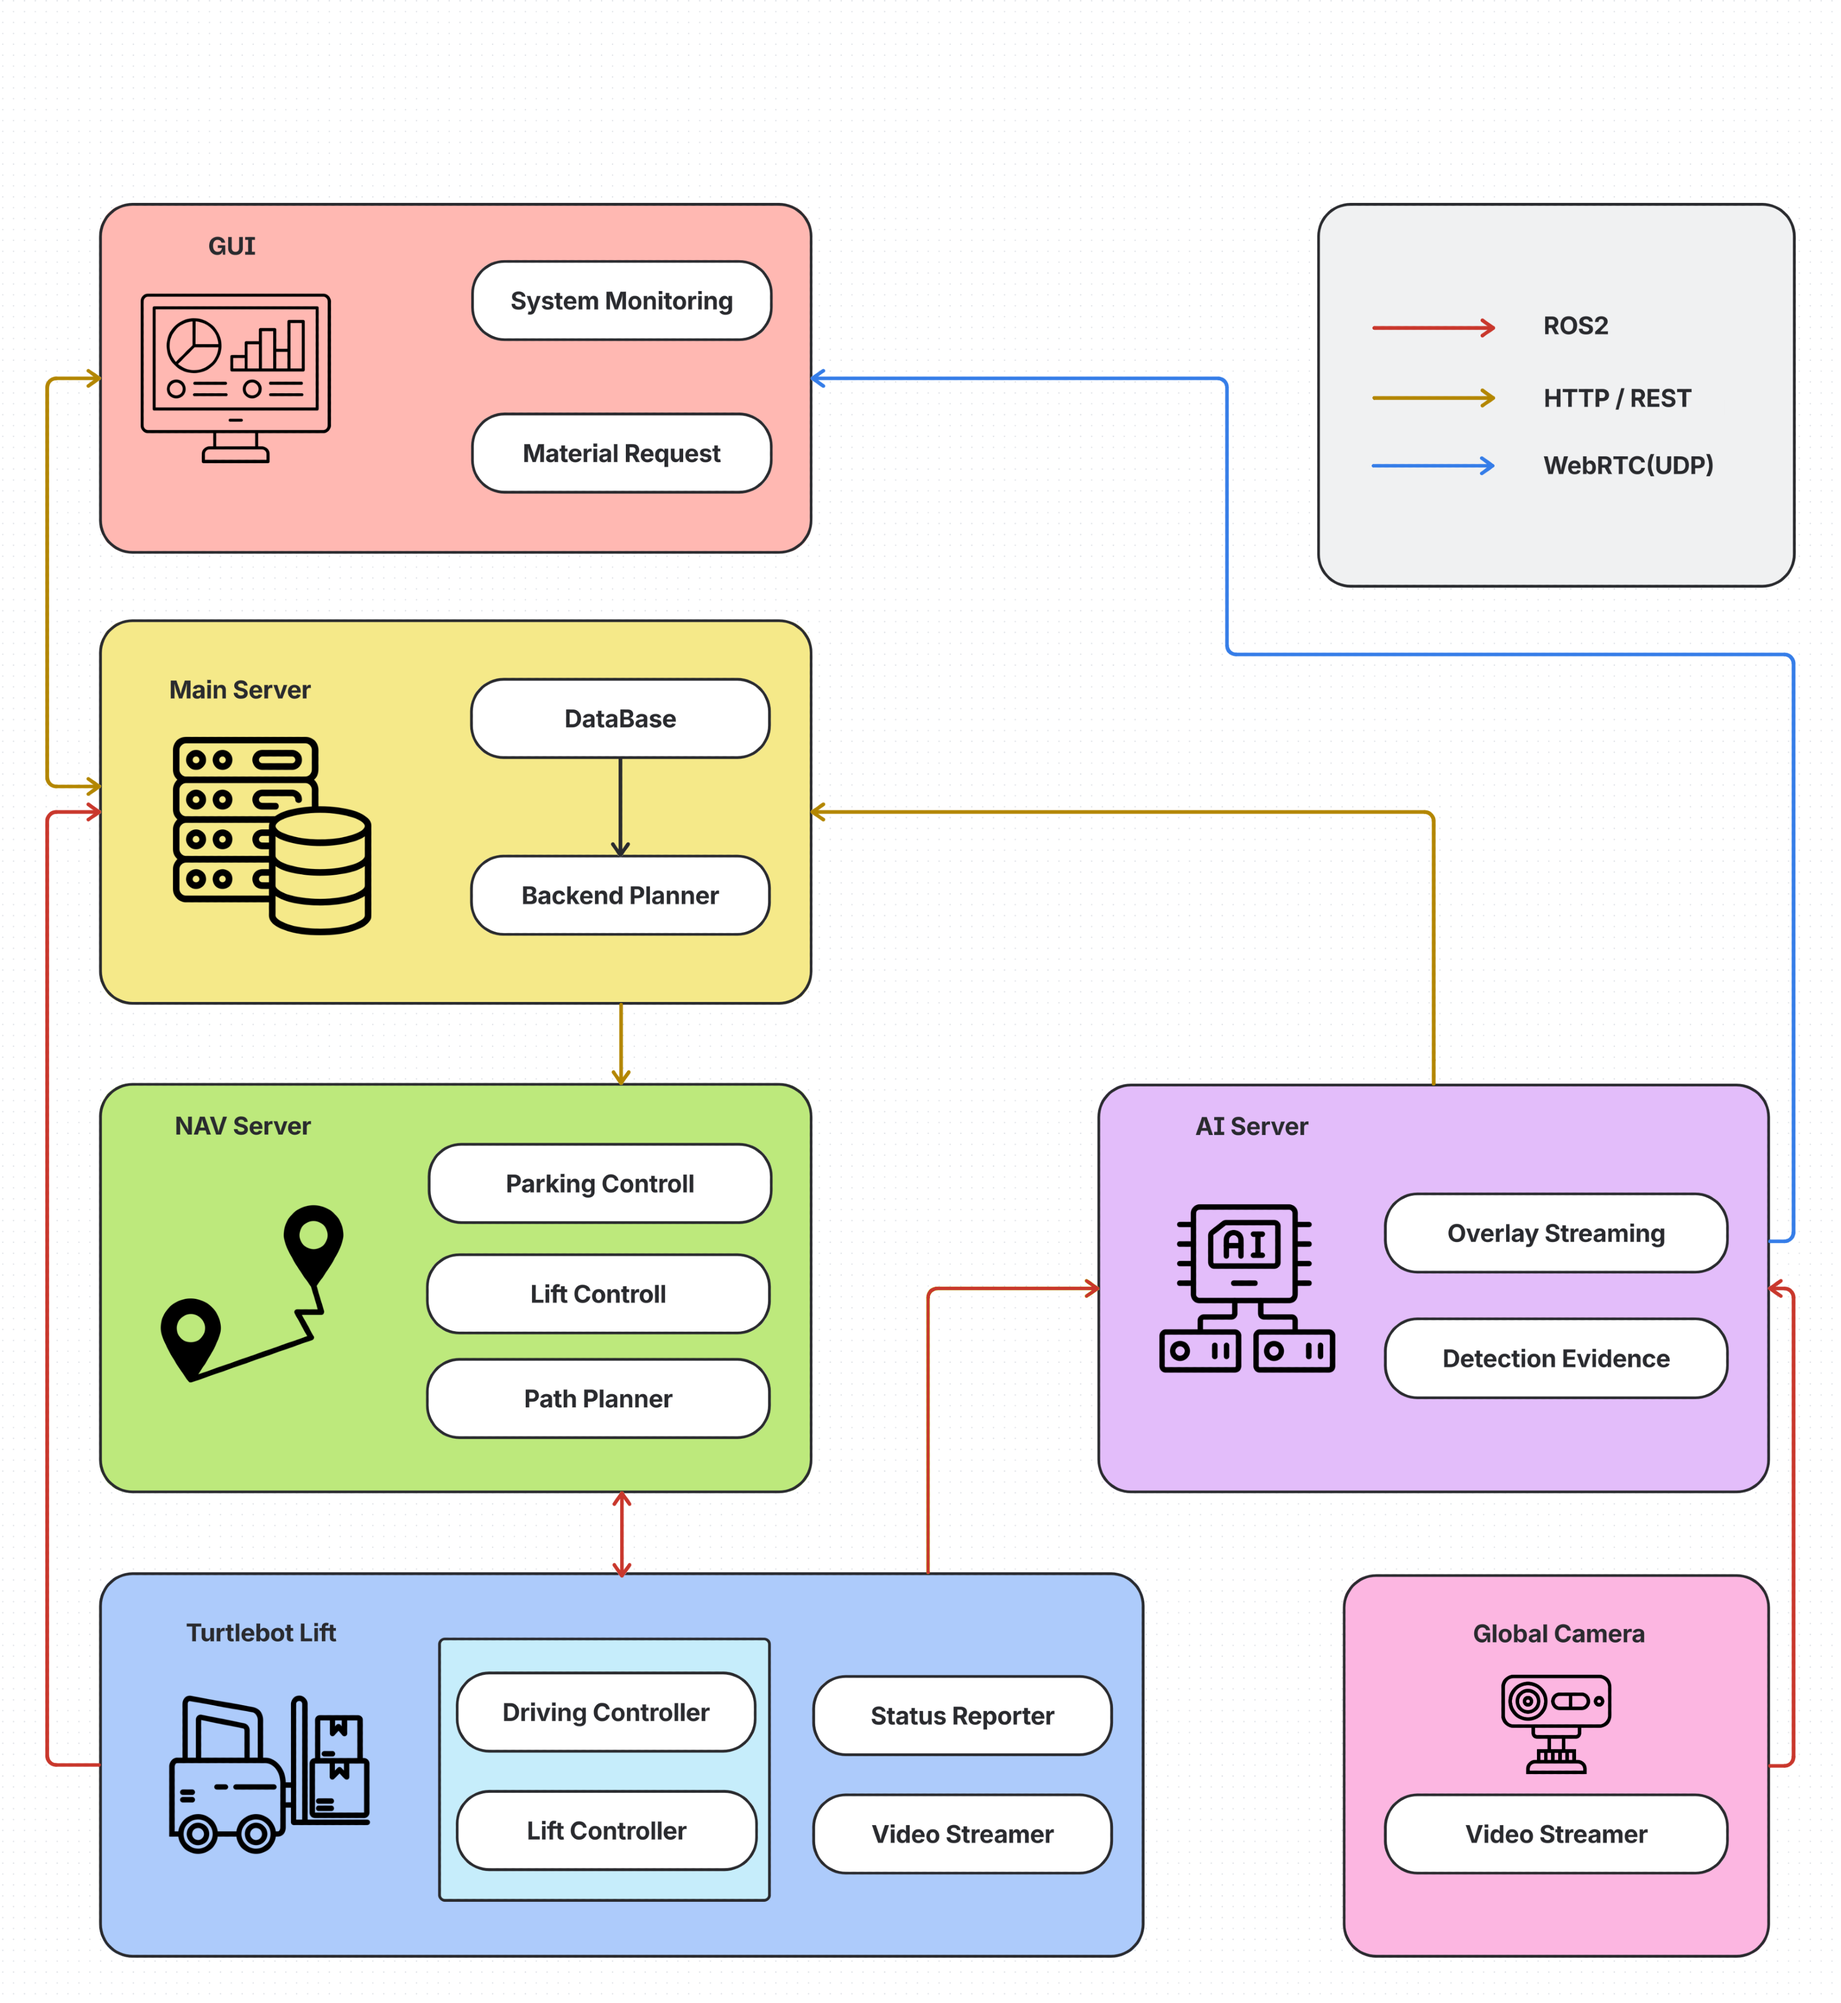
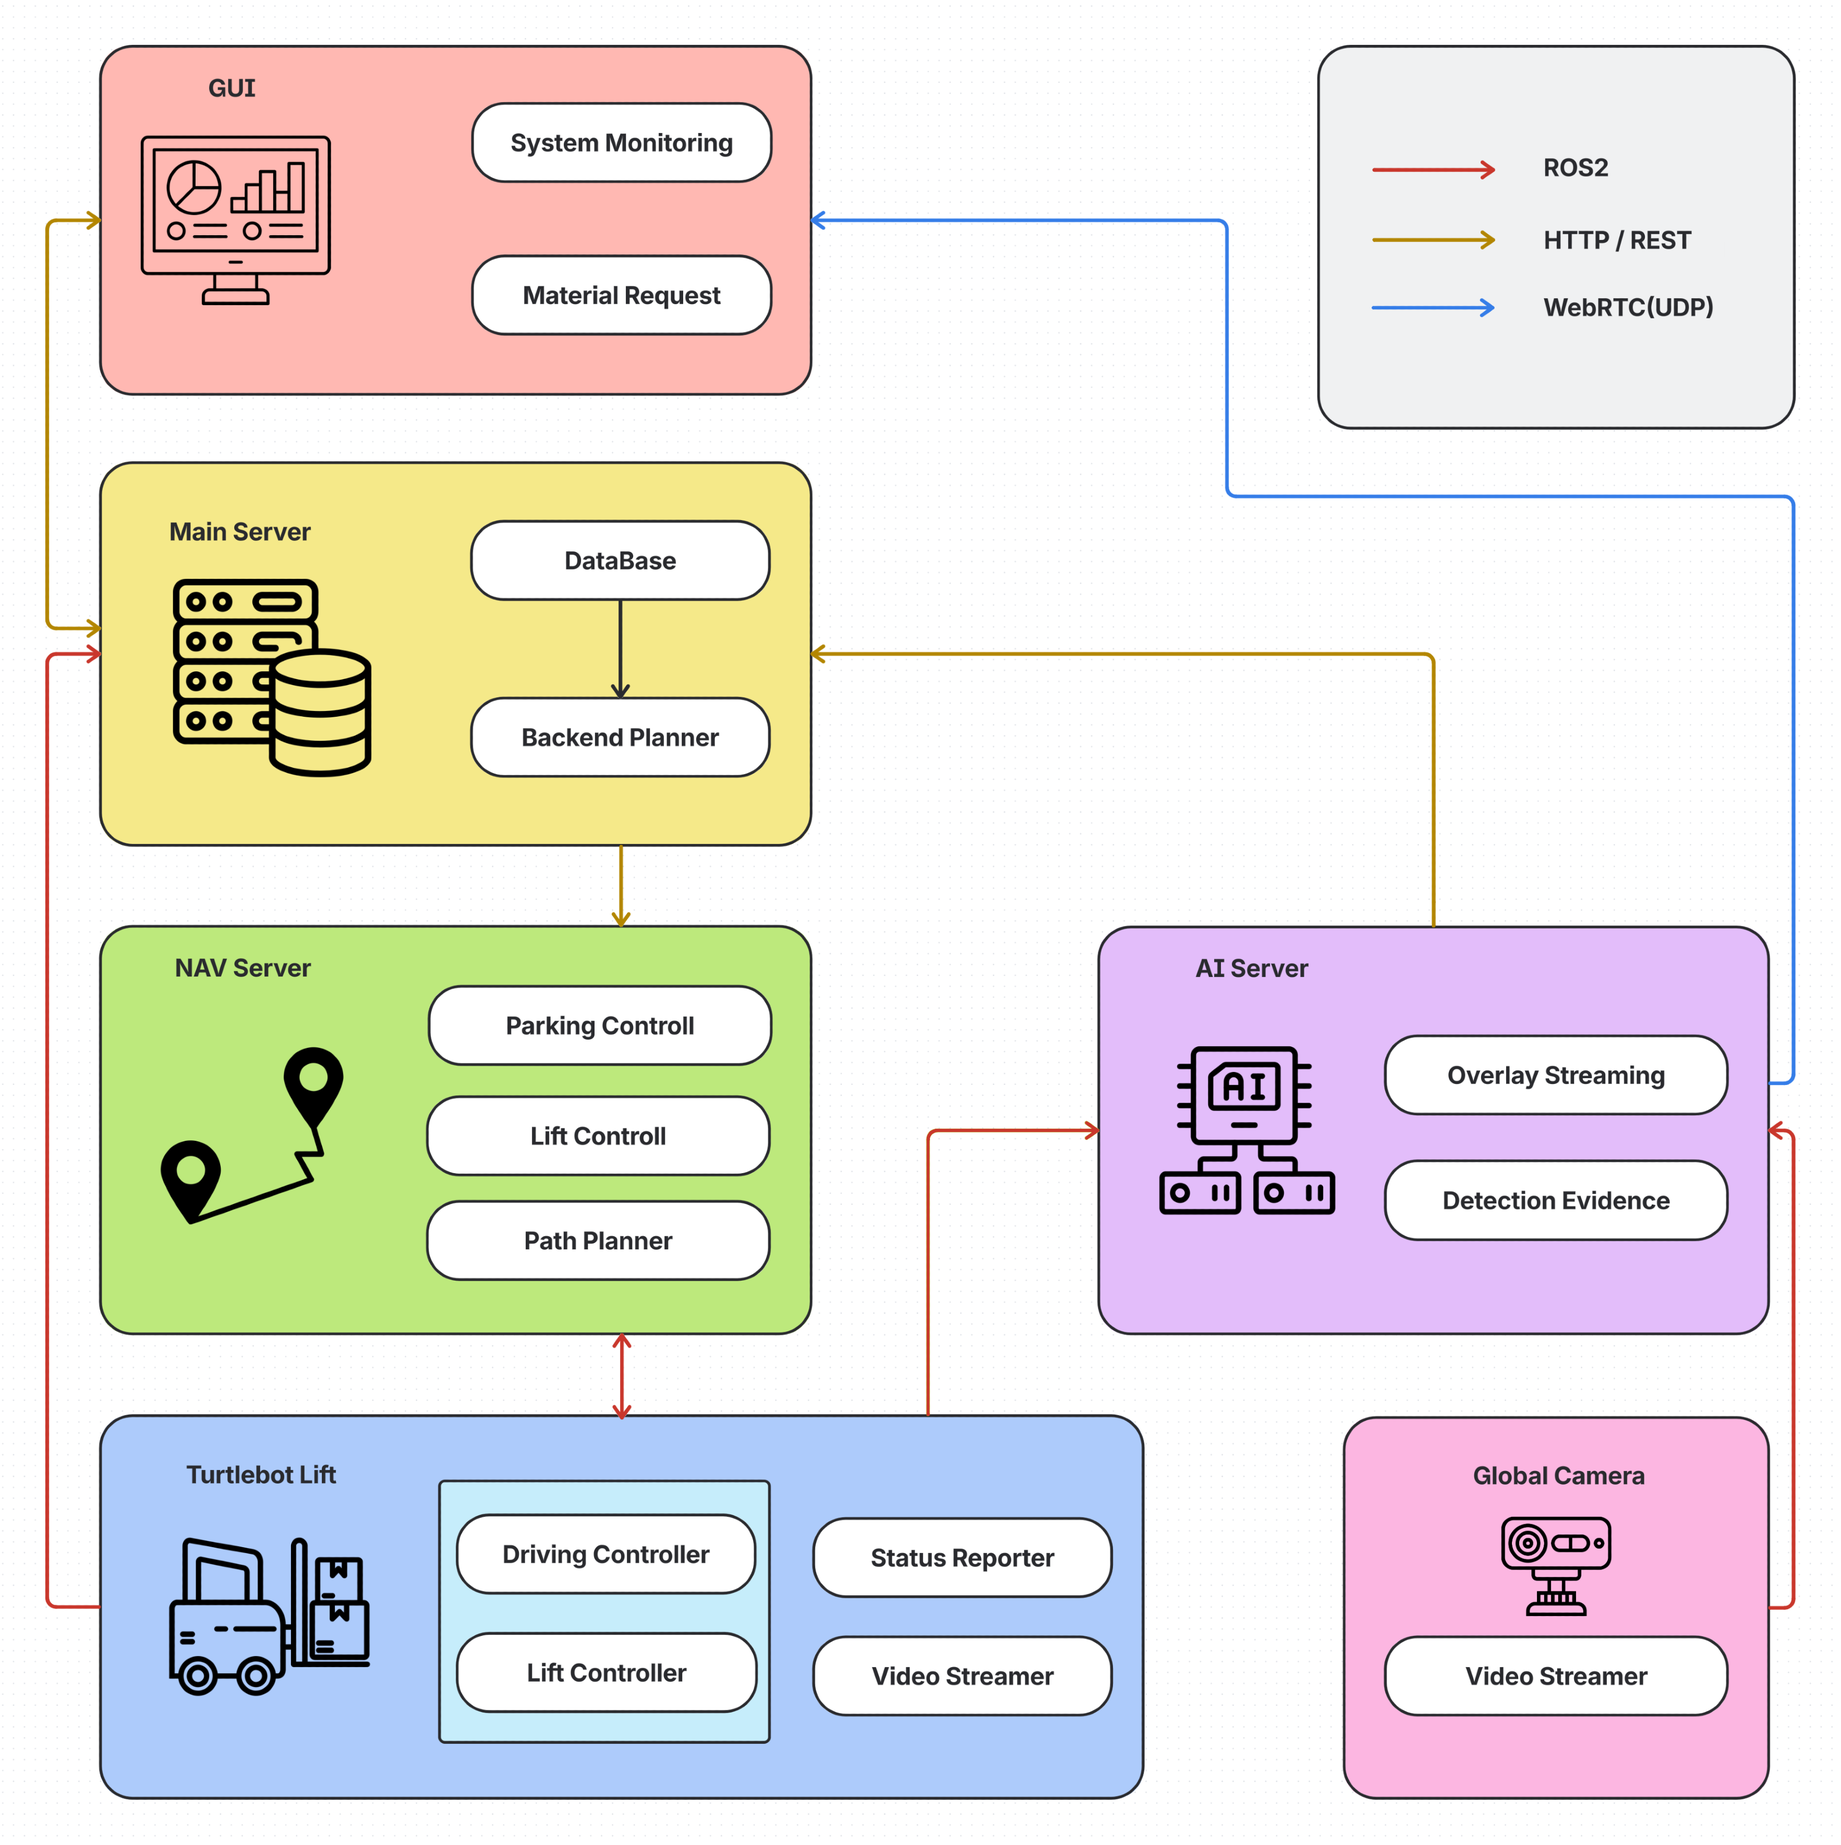
docs: align README layout and team table

diff --git a/README.md b/README.md
@@ -10,20 +10,20 @@ https://github.com/user-attachments/assets/155fc71c-53f5-4262-bbdc-710d7563c2a5
 
 ## 1. 팀 구성 및 역할
 
-<table width="100%">
-  <thead><tr><th width="5%" nowrap>순서</th><th width="15%" nowrap>팀원</th><th width="20%" nowrap>담당 영역</th><th width="60%" nowrap>주요 역할</th></tr></thead>
+<table width="100%" align="center">
+  <thead><tr><th width="20%" nowrap>팀원</th><th width="20%" nowrap>담당 영역</th><th width="60%" nowrap>주요 역할</th></tr></thead>
   <tbody>
-    <tr><td align="center" nowrap>1</td><td align="center" nowrap>손영빈(팀장)</td><td nowrap>Nav·Hardware</td><td nowrap>ROS 2·Nav2, 도킹, Lift 연동과 실물 주행</td></tr>
-    <tr><td align="center" nowrap>2</td><td align="center" nowrap>윤주찬</td><td nowrap>Hardware</td><td nowrap>포크리프트 구조, Lift 구동부와 실물 하드웨어 구성</td></tr>
-    <tr><td align="center" nowrap>3</td><td align="center" nowrap>김현수</td><td nowrap>Main·UI·DB</td><td nowrap>작업·재고·관제 UI, PostgreSQL과 서버 오케스트레이션</td></tr>
-    <tr><td align="center" nowrap>4</td><td align="center" nowrap>하샘</td><td nowrap>Vision·Localization</td><td nowrap>영상 pipeline, evidence, 안전 감지와 위치 복구</td></tr>
+    <tr><td align="center" nowrap>손영빈(팀장)</td><td nowrap>Nav·Hardware</td><td nowrap>ROS 2·Nav2, 도킹, Lift 연동과 실물 주행</td></tr>
+    <tr><td align="center" nowrap>윤주찬</td><td nowrap>Hardware</td><td nowrap>포크리프트 구조, Lift 구동부와 실물 하드웨어 구성</td></tr>
+    <tr><td align="center" nowrap>김현수</td><td nowrap>Main·UI·DB</td><td nowrap>작업·재고·관제 UI, PostgreSQL과 서버 오케스트레이션</td></tr>
+    <tr><td align="center" nowrap>하샘</td><td nowrap>Vision·Localization</td><td nowrap>영상 pipeline, evidence, 안전 감지와 위치 복구</td></tr>
   </tbody>
 </table>
 
 
 ## 2. 프로젝트 주제
 
-<table width="100%">
+<table width="100%" align="center">
   <thead><tr><th width="24%" nowrap>구분</th><th width="76%" nowrap>내용</th></tr></thead>
   <tbody>
     <tr><td nowrap>프로젝트 목표</td><td nowrap>입·출고 요청부터 재고 반영까지 이어지는 E2E 물류 작업 구현</td></tr>
@@ -43,7 +43,7 @@ https://github.com/user-attachments/assets/155fc71c-53f5-4262-bbdc-710d7563c2a5
 
 물류 자동화는 단순 이동뿐 아니라 작업 요청, 로봇 할당, 적재·하역, 영상 검증과 재고 반영을 하나의 흐름으로 연결해야 합니다. 이 프로젝트는 분산된 상태를 추적 가능한 E2E 작업으로 통합하고, 실제 로봇 환경에서 검증하기 위해 선정했습니다.
 
-<table width="100%">
+<table width="100%" align="center">
   <thead><tr><th width="42%" nowrap>선정 배경</th><th width="58%" nowrap>프로젝트 방향</th></tr></thead>
   <tbody>
     <tr><td nowrap>반복적인 입·출고 운반 업무</td><td nowrap>요청부터 재고 반영까지 정형화된 작업 흐름 구성</td></tr>
@@ -58,7 +58,7 @@ https://github.com/user-attachments/assets/155fc71c-53f5-4262-bbdc-710d7563c2a5
 
 ## 4. 사용자 요구사항
 
-<table width="100%">
+<table width="100%" align="center">
   <thead><tr><th width="12%" nowrap>ID</th><th width="88%" nowrap>현재 구현된 사용자 요구사항</th></tr></thead>
   <tbody>
     <tr><td align="center" nowrap>UR-01</td><td nowrap>로봇은 물품을 운송할 수 있어야 한다.</td></tr>
@@ -75,7 +75,7 @@ https://github.com/user-attachments/assets/155fc71c-53f5-4262-bbdc-710d7563c2a5
 
 ## 5. 시스템 요구사항
 
-<table width="100%">
+<table width="100%" align="center">
   <thead><tr><th width="10%" nowrap>ID</th><th width="24%" nowrap>기능</th><th width="66%" nowrap>요구사항</th></tr></thead>
   <tbody>
     <tr><td align="center" nowrap>SR-01</td><td nowrap>재고 확인</td><td nowrap>관리자가 품목·보관 위치·층별 현재 재고를<br>조회할 수 있다.</td></tr>
@@ -103,15 +103,21 @@ https://github.com/user-attachments/assets/155fc71c-53f5-4262-bbdc-710d7563c2a5
 
 ### 하드웨어 아키텍처
 
-![하드웨어 아키텍처](<assets/Images/HW Architecture (2).png>)
+<p align="center">
+  <img src="assets/Images/HW Architecture (2).png" width="100%" alt="하드웨어 아키텍처">
+</p>
 
-![하드웨어 구성](<assets/Images/TurtleBot3_Result.png>)
+<p align="center">
+  <img src="assets/Images/TurtleBot3_Result.png" width="100%" alt="하드웨어 구성">
+</p>
 
 자세한 CAD, 3D 출력과 배선 자료는 [Hardware 문서](hardware/README.md)를 참고합니다.
 
 ### 소프트웨어 아키텍처
 
-![소프트웨어 아키텍처](<assets/Images/SW Architecture (1)(1)(1).png>)
+<p align="center">
+  <img src="assets/Images/SW Architecture (1)(1)(1).png" width="100%" alt="소프트웨어 아키텍처">
+</p>
 
 ---
 
@@ -158,33 +164,45 @@ https://github.com/user-attachments/assets/155fc71c-53f5-4262-bbdc-710d7563c2a5
 
 > **Sequence Diagram  — 입고 작업**
 
-![입고 작업 시퀀스 다이어그램](assets/Images/InBound.png)
+<p align="center">
+  <img src="assets/Images/InBound.png" width="100%" alt="입고 작업 시퀀스 다이어그램">
+</p>
 
 > **Sequence Diagram  — 출고 작업**
 
-![출고 작업 시퀀스 다이어그램](assets/Images/OutBound.png)
+<p align="center">
+  <img src="assets/Images/OutBound.png" width="100%" alt="출고 작업 시퀀스 다이어그램">
+</p>
 
 > **Sequence Diagram — 위험 감지, E-stop과 작업 복구**
 
-![위험 감지와 E-stop 복구 시퀀스 다이어그램](assets/Images/estop.png)
+<p align="center">
+  <img src="assets/Images/estop.png" width="100%" alt="위험 감지와 E-stop 복구 시퀀스 다이어그램">
+</p>
 
 ## 9. 상태 다이어그램
 
 > **State Diagram — 입출고 작업 상태**
 
-![입출고 작업 상태 다이어그램](assets/Images/입출고.png)
+<p align="center">
+  <img src="assets/Images/입출고.png" width="100%" alt="입출고 작업 상태 다이어그램">
+</p>
 
 > **State Diagram — 안전정지와 운영자 복구**
 
-![안전정지와 운영자 복구 다이어그램](assets/Images/복구.png)
+<p align="center">
+  <img src="assets/Images/복구.png" width="100%" alt="안전정지와 운영자 복구 다이어그램">
+</p>
 
 > **State Diagram — 로봇 상태**
 
-![로봇 상태 다이어그램](assets/Images/로봇.png)
+<p align="center">
+  <img src="assets/Images/로봇.png" width="100%" alt="로봇 상태 다이어그램">
+</p>
 
 ## 10. 물류센터 맵, 요소 지점
 <p align="center">
-  <img src="assets/smartfactory_map_creation_rviz.png" width="800" alt="스마트팩토리 Navigation 맵 제작 화면">
+  <img src="assets/smartfactory_map_creation_rviz.png" width="100%" alt="스마트팩토리 Navigation 맵 제작 화면">
 </p>
 
 ## 11. 소스 구성
@@ -207,7 +225,7 @@ https://github.com/user-attachments/assets/155fc71c-53f5-4262-bbdc-710d7563c2a5
 
 ## 12. 프로젝트 목표와 범위
 
-<table width="100%">
+<table width="100%" align="center">
   <thead><tr><th width="34%" nowrap>핵심 목표</th><th width="66%" nowrap>구현 범위</th></tr></thead>
   <tbody>
     <tr><td nowrap>입·출고 작업과 재고 관리</td><td nowrap>작업 생성·상태 전이와 PostgreSQL 기반 재고·이력 반영</td></tr>
@@ -227,33 +245,42 @@ https://github.com/user-attachments/assets/155fc71c-53f5-4262-bbdc-710d7563c2a5
 
 기록된 통합 시나리오에서는 작업 266을 기준으로 작업 생성부터 완료와 재고 반영까지 동일한 `task_id`로 대조했습니다.
 
-<table width="100%">
-  <thead><tr><th width="15%" nowrap>시나리오</th><th width="65%" nowrap>검증 내용</th><th width="20%" nowrap>결과</th></tr></thead>
+<table width="100%" align="center">
   <tbody>
-    <tr><td align="center" nowrap>S01</td><td nowrap>작업 생성과 로봇 배정</td><td align="center" nowrap>PASS</td></tr>
-    <tr><td align="center" nowrap>S02</td><td nowrap>자율주행 이동과 도착</td><td align="center" nowrap>PASS</td></tr>
-    <tr><td align="center" nowrap>S03</td><td nowrap>적재 evidence</td><td align="center" nowrap>PASS</td></tr>
-    <tr><td align="center" nowrap>S04</td><td nowrap>안전 정지와 복구</td><td align="center" nowrap>PASS</td></tr>
-    <tr><td align="center" nowrap>S05</td><td nowrap>적재 주행 중 사람 감시</td><td align="center" nowrap>PASS</td></tr>
-    <tr><td align="center" nowrap>S06</td><td nowrap>최종 복귀</td><td align="center" nowrap>PASS</td></tr>
-    <tr><td align="center" nowrap>S07</td><td nowrap>작업 완료와 재고 반영</td><td align="center" nowrap>PASS</td></tr>
-  </tbody>
-</table>
-
-<table width="100%">
-  <thead><tr><th width="42%" nowrap>통합 지표</th><th width="58%" nowrap>결과</th></tr></thead>
-  <tbody>
-    <tr><td nowrap>전체 시나리오</td><td nowrap>7/7</td></tr>
-    <tr><td nowrap>Evidence gate</td><td nowrap>2/2</td></tr>
-    <tr><td nowrap>안전 정지·복구</td><td nowrap>2/2</td></tr>
-    <tr><td nowrap>E2E 실행 시간</td><td nowrap>5분 25초</td></tr>
-    <tr><td nowrap>작업 완료와 재고 반영</td><td nowrap>동일 시각 확인</td></tr>
+    <tr>
+      <td width="64%" valign="top">
+        <table width="100%" align="center">
+          <thead><tr><th width="15%" nowrap>시나리오</th><th width="65%" nowrap>검증 내용</th><th width="20%" nowrap>결과</th></tr></thead>
+          <tbody>
+            <tr><td align="center" nowrap>S01</td><td nowrap>작업 생성과 로봇 배정</td><td align="center" nowrap>PASS</td></tr>
+            <tr><td align="center" nowrap>S02</td><td nowrap>자율주행 이동과 도착</td><td align="center" nowrap>PASS</td></tr>
+            <tr><td align="center" nowrap>S03</td><td nowrap>적재 evidence</td><td align="center" nowrap>PASS</td></tr>
+            <tr><td align="center" nowrap>S04</td><td nowrap>안전 정지와 복구</td><td align="center" nowrap>PASS</td></tr>
+            <tr><td align="center" nowrap>S05</td><td nowrap>적재 주행 중 사람 감시</td><td align="center" nowrap>PASS</td></tr>
+            <tr><td align="center" nowrap>S06</td><td nowrap>최종 복귀</td><td align="center" nowrap>PASS</td></tr>
+            <tr><td align="center" nowrap>S07</td><td nowrap>작업 완료와 재고 반영</td><td align="center" nowrap>PASS</td></tr>
+          </tbody>
+        </table>
+      </td>
+      <td width="36%" valign="top">
+        <table width="100%" align="center">
+          <thead><tr><th width="58%" nowrap>통합 지표</th><th width="42%" nowrap>결과</th></tr></thead>
+          <tbody>
+            <tr><td nowrap>전체 시나리오</td><td nowrap>7/7</td></tr>
+            <tr><td nowrap>Evidence gate</td><td nowrap>2/2</td></tr>
+            <tr><td nowrap>안전 정지·복구</td><td nowrap>2/2</td></tr>
+            <tr><td nowrap>E2E 실행 시간</td><td nowrap>5분 25초</td></tr>
+            <tr><td nowrap>작업 완료와 재고 반영</td><td nowrap>동일 시각 확인</td></tr>
+          </tbody>
+        </table>
+      </td>
+    </tr>
   </tbody>
 </table>
 
 ### 13.2 검증 계층
 
-<table width="100%">
+<table width="100%" align="center">
   <thead><tr><th width="25%" nowrap>검증 구분</th><th width="45%" nowrap>확인 범위</th><th width="30%" nowrap>증명하지 않는 범위</th></tr></thead>
   <tbody>
     <tr><td nowrap>자동 테스트</td><td nowrap>API, schema, 인증, 상태 전이, DB와 설정</td><td nowrap>실제 로봇의 물리 동작</td></tr>
@@ -281,7 +308,7 @@ API, 인증, DB와 Main·Nav·AI 계약을 확인하며 실제 주행과 Lift는
 
 ### 14.2 통합 Profile 실행
 
-<table width="100%">
+<table width="100%" align="center">
   <thead><tr><th width="24%" nowrap>실행 환경</th><th width="38%" nowrap>Profile</th><th width="38%" nowrap>실행 범위</th></tr></thead>
   <tbody>
     <tr><td nowrap>단일 로봇 통합 PC</td><td nowrap><code>tb1-local-e2e</code><br><code>tb2-local-e2e</code></td><td nowrap>Main·UI와 선택 Nav</td></tr>
@@ -352,7 +379,7 @@ nav-server/scripts/robot_sbc/stop_stack.sh
 
 ## 15. 현재 한계와 확장 목표
 
-<table width="100%">
+<table width="100%" align="center">
   <thead><tr><th width="46%" nowrap>현재 확보한 기반</th><th width="54%" nowrap>다음 목표</th></tr></thead>
   <tbody>
     <tr><td nowrap>한 대의 로봇으로 Full E2E 검증</td><td nowrap>두 대 이상 동시 배정과 traffic·zone 경합 검증</td></tr>
@@ -372,7 +399,9 @@ nav-server/scripts/robot_sbc/stop_stack.sh
 
 ### Jira 작업 이력
 
-![Jira 작업 이력](assets/Images/jira-task-history-2026-07-28.png)
+<p align="center">
+  <img src="assets/Images/jira-task-history-2026-07-28.png" width="100%" alt="Jira 작업 이력">
+</p>
 프로젝트 기간 [ 2026년 5월 25일 ~ 2026년 7월 24일 ]
 ## 17. 프로젝트 기술 스택
 
